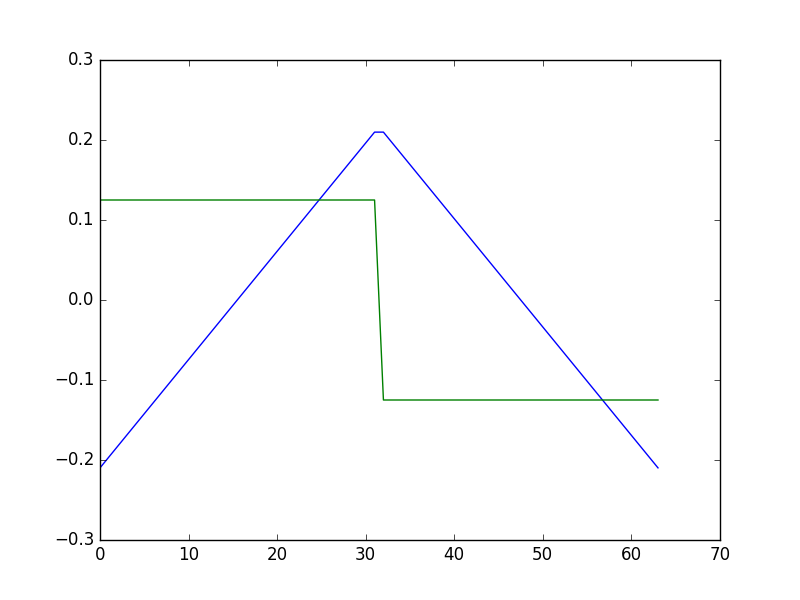
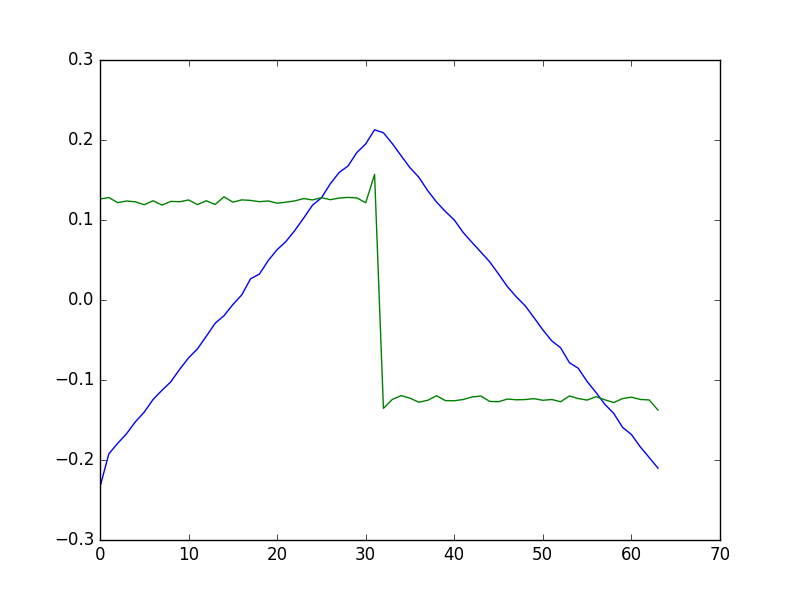
Make install

diff --git a/searchindex.js b/searchindex.js
@@ -1,1 +1,1 @@
-Search.setIndex({docnames:["api","auto_examples/index","auto_examples/plot_simulate_alphacsc","auto_examples/plot_simulate_csc","auto_examples/plot_simulate_motif","index"],envversion:50,filenames:["api.rst","auto_examples/index.rst","auto_examples/plot_simulate_alphacsc.rst","auto_examples/plot_simulate_csc.rst","auto_examples/plot_simulate_motif.rst","index.rst"],objects:{},objnames:{},objtypes:{},terms:{"\u015fim\u015fekli":[4,5],"break":4,"case":[3,4],"dupr\u00e9":[4,5],"final":[2,3,4],"function":0,"import":[2,3,4,5],"int":[2,3],"true":[2,3,4],"try":4,Jas:[2,3,4,5],The:5,Then:5,Use:5,Using:[4,5],acoust:4,activ:5,add:[2,3],admin:5,after:4,alexandr:[2,3,4],algorithm:4,all:[4,5],alpha:[1,3,4,5],alphacsc:[2,3,4,5],altern:4,amplitud:4,anaconda:5,ani:5,arrai:5,arxiv:[4,5],atom:[2,3,4,5],author:[2,3,4],avoid:4,best:[2,3],brain:[4,5],bsd:[2,3,4],can:5,cannot:4,check:[3,4,5],check_random_st:[2,3],choos:4,cite:4,claus:[2,3,4],code:[2,3,4,5],com:5,compar:[2,3,4],comput:5,confer:4,constant_amplitud:4,control:5,convolut:[4,5],corrupt:[2,3],csc:[1,4,5],d_hat:[2,3,5],data:[1,5],deal:[3,4],defin:[2,3,4],demonstr:[2,3,4],depend:5,dict:[2,3],dictionari:[4,5],distribut:5,doctest:5,download:[2,3,4],ds_hat:4,ds_true:[2,3,4],dual:[2,3,5],dupr:[2,3,4],duprelatour:[2,3,4],effici:4,egg:5,error:5,estim:[4,5],even:2,everyth:5,exampl:[2,3,4],factr:[2,3],figur:[2,3,4],fine:5,first:[2,3,4,5],flag:5,fraction_corrupt:[2,3],from:[2,3,4,5],func:[2,3],func_d:[2,3,5],functool:[2,3,5],gca:2,get_legend_handles_label:2,git:5,github:5,give:5,global:2,gramfort:[2,3,4,5],hack:4,handl:[2,4],have:5,here:[2,3],how:[3,4],http:5,icassp:4,idx_corrupt:[2,3],ieee:4,implement:4,impuls:[2,3],init_tau:2,intern:4,invari:4,ipynb:[2,3,4],ipython:[2,3,4],issu:5,iter:[2,4],its:5,jas:[2,3,4],jost:4,just:3,l_bfg:[2,3],label:2,larg:4,learn:[3,4,5],learn_atom:4,learn_d_z:[3,5],learn_d_z_weight:2,legend:2,length:5,let:[2,3,4],levy_st:[2,3],librari:5,licens:[2,3,4],like:5,loc:[2,3],look:3,mai:3,mainak:[2,3,4],matplotlib:[2,3,4,5],max_shift:4,messag:5,method:3,minut:[2,3,4],model:[2,3],modul:4,morpholog:[4,5],motif:1,n_atom:[2,3,4,5],n_burnin_mcmc:2,n_corrupted_tri:[2,3],n_iter:[3,4,5],n_iter_glob:2,n_iter_mcmc:2,n_iter_optim:2,n_job:[2,3],n_time:[2,3,4,5],n_times_atom:[2,3,4,5],n_trial:[2,3,4,5],need:5,neural:5,next:2,nois:[2,3],noise_level:[2,3],noqa:[2,3],note:[3,4],notebook:[2,3,4],now:[2,3],number:5,numpi:5,offer:4,origin:4,our:[2,3,4],out:[2,3,4],overlap:4,paper:4,paramet:[2,3,4,5],paristech:[2,3,4],partial:[2,3,5],penalti:5,perform:5,philipp:4,pip:5,pleas:4,plot:[2,3,4],plot_simulate_alphacsc:2,plot_simulate_csc:3,plot_simulate_motif:4,plt:[2,3,4],pobj:[3,5],preprint:[4,5],presenc:2,print:3,privileg:5,proceed:4,process:4,project:[2,3,5],provid:5,pyplot:[2,3,4],python:[2,3,4,5],quit:3,randint:[2,3],randn:[2,3],random_st:[2,3,4],random_state_simul:[2,3,4],recommend:5,reg:[2,3,5],relev:4,result:[2,3],rng:[2,3],run:[2,3,4],rvs:[2,3],same:2,scale:[2,3],scipi:[2,3,5],script:[2,3,4],second:[2,3,4],seed:4,seri:5,shape:[2,3,5],should:5,show:[2,3,4],signal:[4,5],similar:3,simsekli:[2,3,4],simul:1,simulate_data:[2,3,4],sinc:4,size:[2,3],skip:5,solver_d_kwarg:[2,3],solver_z:[2,3],some:[2,3],sourc:[2,3,4],spars:[4,5],sparsiti:5,special:3,specifi:5,speech:4,stabl:[4,5],stat:[2,3],stationari:[2,3],tau:2,telecom:[2,3,4],thi:[2,3,4,5],time:[2,3,4,5],tom:[2,3,4],total:[2,3,4],tour:[2,3,4,5],tracker:5,translat:4,trial:[2,3],umut:[2,3,4],update_d_block:[2,3,5],upgrad:5,use:[4,5],user:[4,5],using:3,vanilla:[1,4],vari:4,verbos:[2,3],vol:4,which:4,work:[2,5],would:5,xxx:4,you:[4,5],z_hat:[2,3,5],z_true:[2,3,4]},titles:["API Documentation","Examples Gallery","Alpha CSC on simulated data","Vanilla CSC on simulated data","MoTIF on simulated data","Installation"],titleterms:{alpha:2,api:0,atom:0,bug:5,cite:5,csc:[2,3],data:[2,3,4],document:0,exampl:1,galleri:1,instal:5,learn:0,motif:4,quickstart:5,report:5,simul:[0,2,3,4],vanilla:3}})
+Search.setIndex({docnames:["api","auto_examples/index","auto_examples/plot_simulate_alphacsc","auto_examples/plot_simulate_csc","auto_examples/plot_simulate_motif","index"],envversion:50,filenames:["api.rst","auto_examples/index.rst","auto_examples/plot_simulate_alphacsc.rst","auto_examples/plot_simulate_csc.rst","auto_examples/plot_simulate_motif.rst","index.rst"],objects:{},objnames:{},objtypes:{},terms:{"\u015fim\u015fekli":[4,5],"break":4,"case":[3,4],"dupr\u00e9":[4,5],"final":[2,3,4],"function":0,"import":[2,3,4,5],"int":[2,3],"true":[2,3,4],"try":4,Jas:[2,3,4,5],The:5,Then:5,Use:5,Using:[4,5],acoust:4,activ:5,add:[2,3],admin:5,after:4,alexandr:[2,3,4],algorithm:4,all:[4,5],alpha:[1,3,4,5],alphacsc:[2,3,4,5],altern:4,alwai:3,amplitud:[3,4],anaconda:5,ani:5,arrai:5,arxiv:[4,5],atom:[2,3,4,5],author:[2,3,4],avoid:4,best:[2,3],brain:[4,5],bsd:[2,3,4],can:5,cannot:4,check:[3,4,5],check_random_st:[2,3],choos:4,cite:4,claus:[2,3,4],code:[2,3,4,5],com:5,compar:[2,3,4],comput:5,confer:4,constant_amplitud:4,control:5,convolut:[4,5],corrupt:[2,3],csc:[1,4,5],d_hat:[2,3,5],data:[1,5],deal:[3,4],defin:[2,3,4],demonstr:[2,3,4],depend:5,dict:[2,3],dictionari:[4,5],distribut:5,doctest:5,don:3,download:[2,3,4],ds_hat:4,ds_true:[2,3,4],dual:[2,3,5],dupr:[2,3,4],duprelatour:[2,3,4],effici:4,egg:5,error:5,estim:[4,5],even:2,everyth:5,exampl:[2,3,4],factr:[2,3],figur:[2,3,4],fine:5,first:[2,3,4,5],flag:5,fraction_corrupt:[2,3],from:[2,3,4,5],func:[2,3],func_d:[2,3,5],functool:[2,3,5],gca:2,get_legend_handles_label:2,git:5,github:5,give:5,global:2,gramfort:[2,3,4,5],hack:4,handl:[2,4],have:[3,5],here:[2,3],how:[3,4],http:5,icassp:4,idx_corrupt:[2,3],ieee:4,implement:4,impuls:[2,3],init_tau:2,instant:3,intern:4,invari:4,ipynb:[2,3,4],ipython:[2,3,4],issu:5,iter:[2,4],its:5,jas:[2,3,4],jost:4,just:3,l_bfg:[2,3],label:2,larg:4,learn:[3,4,5],learn_atom:4,learn_d_z:[3,5],learn_d_z_weight:2,legend:2,length:5,let:[2,3,4],levy_st:[2,3],librari:5,licens:[2,3,4],like:5,loc:[2,3],look:3,mai:3,mainak:[2,3,4],matplotlib:[2,3,4,5],max_shift:4,messag:5,method:3,minut:[2,3,4],model:[2,3],modul:4,morpholog:[4,5],motif:1,n_atom:[2,3,4,5],n_burnin_mcmc:2,n_corrupted_tri:[2,3],n_iter:[3,4,5],n_iter_glob:2,n_iter_mcmc:2,n_iter_optim:2,n_job:[2,3],n_time:[2,3,4,5],n_times_atom:[2,3,4,5],n_trial:[2,3,4,5],need:5,neural:5,next:2,nois:[2,3],noise_level:[2,3],noqa:[2,3],note:[3,4],notebook:[2,3,4],now:[2,3],number:5,numpi:5,occur:3,offer:4,origin:4,our:[2,3,4],out:[2,3,4],overlap:4,paper:4,paramet:[2,3,4,5],paristech:[2,3,4],partial:[2,3,5],penalti:5,perform:5,philipp:4,pip:5,pleas:4,plot:[2,3,4],plot_data:3,plot_simulate_alphacsc:2,plot_simulate_csc:3,plot_simulate_motif:4,plt:[2,3,4],pobj:[3,5],preprint:[4,5],presenc:2,print:3,privileg:5,proceed:4,process:4,project:[2,3,5],provid:5,pyplot:[2,3,4],python:[2,3,4,5],quit:3,randint:[2,3],randn:[2,3],random_st:[2,3,4],random_state_simul:[2,3,4],recommend:5,reg:[2,3,5],relev:4,result:[2,3],rng:[2,3],run:[2,3,4],rvs:[2,3],same:[2,3],scale:[2,3],scipi:[2,3,5],script:[2,3,4],second:[2,3,4],see:3,seed:4,seri:5,shape:[2,3,5],should:5,show:[2,3,4],signal:[4,5],similar:3,simsekli:[2,3,4],simul:1,simulate_data:[2,3,4],sinc:4,size:[2,3],skip:5,solver_d_kwarg:[2,3],solver_z:[2,3],some:[2,3],sourc:[2,3,4],spars:[4,5],sparsiti:5,special:3,specifi:5,speech:4,stabl:[4,5],stat:[2,3],stationari:[2,3],tau:2,telecom:[2,3,4],thei:3,thi:[2,3,4,5],time:[2,3,4,5],tom:[2,3,4],total:[2,3,4],tour:[2,3,4,5],tracker:5,translat:4,trial:[2,3],umut:[2,3,4],update_d_block:[2,3,5],upgrad:5,use:[4,5],user:[4,5],using:3,util:3,vanilla:[1,4],vari:4,verbos:[2,3],vol:4,which:4,work:[2,5],would:5,xxx:4,you:[4,5],z_hat:[2,3,5],z_true:[2,3,4]},titles:["API Documentation","Examples Gallery","Alpha CSC on simulated data","Vanilla CSC on simulated data","MoTIF on simulated data","Installation"],titleterms:{alpha:2,api:0,atom:0,bug:5,cite:5,csc:[2,3],data:[2,3,4],document:0,exampl:1,galleri:1,instal:5,learn:0,motif:4,quickstart:5,report:5,simul:[0,2,3,4],vanilla:3}})

diff --git a/auto_examples/plot_simulate_csc.html b/auto_examples/plot_simulate_csc.html
@@ -165,6 +165,14 @@ alphaCSC with alpha=2.</p>
                             <span class="n">size</span><span class="o">=</span><span class="n">n_corrupted_trials</span><span class="p">)</span>
 </pre></div>
 </div>
+<p>Let us look at the first 10 trials to see how they look.</p>
+<div class="highlight-python"><div class="highlight"><pre><span></span><span class="kn">from</span> <span class="nn">alphacsc.utils</span> <span class="kn">import</span> <span class="n">plot_data</span> <span class="c1"># noqa</span>
+<span class="n">plot_data</span><span class="p">([</span><span class="n">X</span><span class="p">[:</span><span class="mi">10</span><span class="p">]])</span>
+</pre></div>
+</div>
+<img alt="../_images/sphx_glr_plot_simulate_csc_001.png" class="align-center" src="../_images/sphx_glr_plot_simulate_csc_001.png" />
+<p>Note that the atoms don&#8217;t always have the same amplitude or occur at the
+same time instant.</p>
 <p>Now, we run vanilla CSC on the data.</p>
 <div class="highlight-python"><div class="highlight"><pre><span></span><span class="kn">from</span> <span class="nn">functools</span> <span class="kn">import</span> <span class="n">partial</span> <span class="c1"># noqa</span>
 <span class="kn">from</span> <span class="nn">alphacsc</span> <span class="kn">import</span> <span class="n">learn_d_z</span><span class="p">,</span> <span class="n">update_d_block</span> <span class="c1"># noqa</span>
@@ -186,17 +194,17 @@ alphaCSC with alpha=2.</p>
 </div>
 <p>Finally, let&#8217;s compare the results.</p>
 <div class="highlight-python"><div class="highlight"><pre><span></span><span class="kn">import</span> <span class="nn">matplotlib.pyplot</span> <span class="kn">as</span> <span class="nn">plt</span> <span class="c1"># noqa</span>
-
+<span class="n">plt</span><span class="o">.</span><span class="n">figure</span><span class="p">()</span>
 <span class="n">plt</span><span class="o">.</span><span class="n">plot</span><span class="p">(</span><span class="n">d_hat</span><span class="o">.</span><span class="n">T</span><span class="p">)</span>
 </pre></div>
 </div>
-<img alt="../_images/sphx_glr_plot_simulate_csc_001.png" class="align-center" src="../_images/sphx_glr_plot_simulate_csc_001.png" />
+<img alt="../_images/sphx_glr_plot_simulate_csc_002.png" class="align-center" src="../_images/sphx_glr_plot_simulate_csc_002.png" />
 <p>This looks quite similar to the true atoms.</p>
 <div class="highlight-python"><div class="highlight"><pre><span></span><span class="n">plt</span><span class="o">.</span><span class="n">figure</span><span class="p">()</span>
 <span class="n">plt</span><span class="o">.</span><span class="n">plot</span><span class="p">(</span><span class="n">ds_true</span><span class="o">.</span><span class="n">T</span><span class="p">)</span>
 </pre></div>
 </div>
-<img alt="../_images/sphx_glr_plot_simulate_csc_002.png" class="align-center" src="../_images/sphx_glr_plot_simulate_csc_002.png" />
+<img alt="../_images/sphx_glr_plot_simulate_csc_003.png" class="align-center" src="../_images/sphx_glr_plot_simulate_csc_003.png" />
 <p>Note if the data is corrupted with impulsive noise, this method may not
 be the best.  Check out our
 <a class="reference internal" href="plot_simulate_alphacsc.html#sphx-glr-auto-examples-plot-simulate-alphacsc-py"><span class="std std-ref">example using alphacsc</span></a>
@@ -216,13 +224,13 @@ to learn how to deal with such data.</p>
 <span class="n">plt</span><span class="o">.</span><span class="n">show</span><span class="p">()</span>
 </pre></div>
 </div>
-<img alt="../_images/sphx_glr_plot_simulate_csc_003.png" class="align-center" src="../_images/sphx_glr_plot_simulate_csc_003.png" />
+<img alt="../_images/sphx_glr_plot_simulate_csc_004.png" class="align-center" src="../_images/sphx_glr_plot_simulate_csc_004.png" />
 <p class="sphx-glr-script-out">Out:</p>
 <div class="sphx-glr-script-out highlight-default"><div class="highlight"><pre><span></span><span class="o">..................................................</span>
 </pre></div>
 </div>
 <p><strong>Total running time of the script:</strong>
-(0 minutes 21.681 seconds)</p>
+(0 minutes 23.051 seconds)</p>
 <div class="sphx-glr-download docutils container">
 <strong>Download Python source code:</strong> <a class="reference download internal" href="../_downloads/plot_simulate_csc.py" download=""><code class="xref download docutils literal"><span class="pre">plot_simulate_csc.py</span></code></a></div>
 <div class="sphx-glr-download docutils container">

diff --git a/auto_examples/index.html b/auto_examples/index.html
@@ -130,14 +130,14 @@
 </div><div class="toctree-wrapper compound">
 </div>
 <div class="sphx-glr-thumbcontainer" tooltip=""><div class="figure" id="id2">
-<img alt="../_images/sphx_glr_plot_simulate_csc_thumb.png" src="../_images/sphx_glr_plot_simulate_csc_thumb.png" />
-<p class="caption"><span class="caption-text"><a class="reference internal" href="plot_simulate_csc.html#sphx-glr-auto-examples-plot-simulate-csc-py"><span class="std std-ref">Vanilla CSC on simulated data</span></a></span></p>
+<img alt="../_images/sphx_glr_plot_simulate_alphacsc_thumb.png" src="../_images/sphx_glr_plot_simulate_alphacsc_thumb.png" />
+<p class="caption"><span class="caption-text"><a class="reference internal" href="plot_simulate_alphacsc.html#sphx-glr-auto-examples-plot-simulate-alphacsc-py"><span class="std std-ref">Alpha CSC on simulated data</span></a></span></p>
 </div>
 </div><div class="toctree-wrapper compound">
 </div>
 <div class="sphx-glr-thumbcontainer" tooltip=""><div class="figure" id="id3">
-<img alt="../_images/sphx_glr_plot_simulate_alphacsc_thumb.png" src="../_images/sphx_glr_plot_simulate_alphacsc_thumb.png" />
-<p class="caption"><span class="caption-text"><a class="reference internal" href="plot_simulate_alphacsc.html#sphx-glr-auto-examples-plot-simulate-alphacsc-py"><span class="std std-ref">Alpha CSC on simulated data</span></a></span></p>
+<img alt="../_images/sphx_glr_plot_simulate_csc_thumb.png" src="../_images/sphx_glr_plot_simulate_csc_thumb.png" />
+<p class="caption"><span class="caption-text"><a class="reference internal" href="plot_simulate_csc.html#sphx-glr-auto-examples-plot-simulate-csc-py"><span class="std std-ref">Vanilla CSC on simulated data</span></a></span></p>
 </div>
 </div><div class="toctree-wrapper compound">
 </div>

diff --git a/_downloads/plot_simulate_csc.py b/_downloads/plot_simulate_csc.py
@@ -52,6 +52,15 @@ idx_corrupted = rng.randint(0, n_trials,
                             size=n_corrupted_trials)
 
 ###############################################################################
+# Let us look at the first 10 trials to see how they look.
+
+from alphacsc.utils import plot_data # noqa
+plot_data([X[:10]])
+
+###############################################################################
+# Note that the atoms don't always have the same amplitude or occur at the
+# same time instant.
+#
 # Now, we run vanilla CSC on the data.
 
 from functools import partial # noqa
@@ -71,7 +80,7 @@ print('Vanilla CSC')
 # Finally, let's compare the results.
 
 import matplotlib.pyplot as plt # noqa
-
+plt.figure()
 plt.plot(d_hat.T)
 
 ###############################################################################
